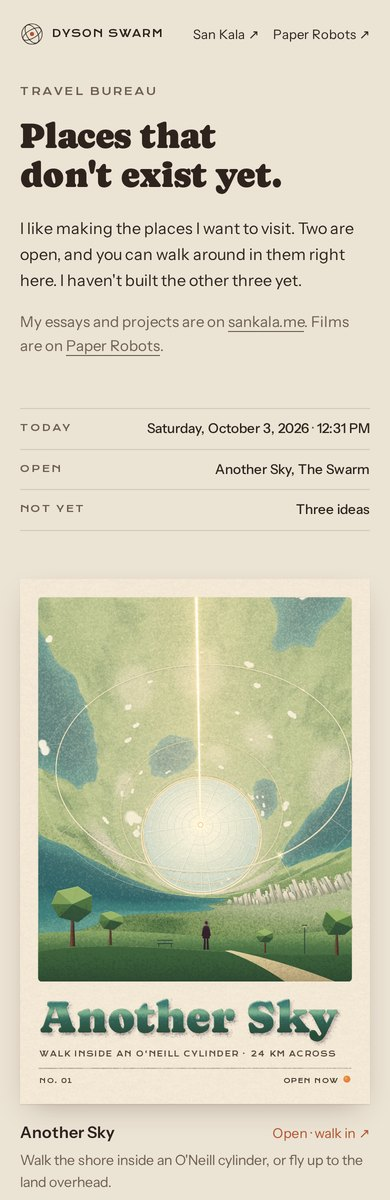
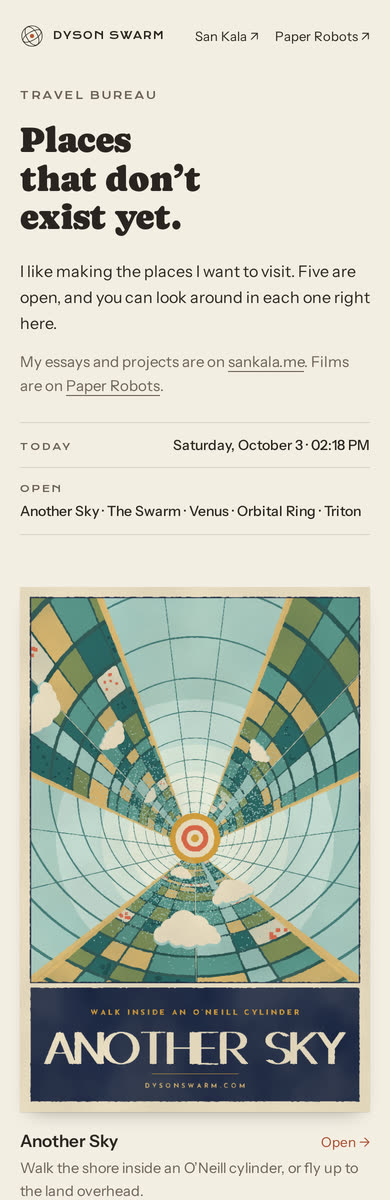
Update the gallery: Dyson Swarm posters and homepage, Another Sky's window live

diff --git a/design/prototypes/2026-10-code-drawn-art/index.html b/design/prototypes/2026-10-code-drawn-art/index.html
@@ -54,6 +54,8 @@
   h3 { font-size: 1.2rem; line-height: 1.3; font-weight: 600; margin: 0; text-wrap: balance; }
   .where { font-weight: 400; color: var(--muted); }
   .eras { margin: 0; padding-left: 1.2rem; display: grid; gap: 0.4rem; }
+  .sheet { display: block; border: 1px solid var(--rule); }
+  .sheet img { display: block; width: 100%; height: auto; }
   .pending-art { display: grid; place-items: center; color: var(--muted); font-size: 0.95rem; text-align: center; padding: 1rem; }
   footer { color: var(--muted); font-size: 0.95rem; border-top: 1px solid var(--rule); padding-top: 1.25rem; }
   code { font-size: 0.9em; overflow-wrap: anywhere; }
@@ -74,31 +76,27 @@
 
     <article class="proposal">
       <a class="art" href="paper-robots-site/index.html"><img src="previews/thumbs/paper-robots-site.jpg" alt="The Paper Robots homepage opening: deep blue space through a camcorder display, a folded-paper screen with green one-eyed riders showing the gold-leaf title card of How to Please a Capricious God, and the film's title and Watch button on the left." width="1200" height="750"></a>
-      <h3><a href="paper-robots-site/index.html">Paper Robots, opening on the evidence loop</a> <span class="where">· paperrobots.studio homepage, plus a film page</span></h3>
+      <h3><a href="https://www.paperrobots.studio/">Paper Robots, opening on the evidence loop</a> <span class="where">· now live on paperrobots.studio</span></h3>
       <p>The evidence loop becomes the whole first screen. The paper robot gasps, the camera whips over its shoulder, the reticle hunts and locks, and the speck turns into a folded-paper screen with the riders clinging on. It tunes in to the newest film's own title card. The title, runtime and Watch button arrive as plain text at the lock. The tape buttons (02 / 01) whip to the other film. Below, the site goes back to quiet paper: each film as a row with its code-drawn poster, then the essays, About and Follow. The <a href="paper-robots-site/film-01.html">film page</a> shows the poster, title card, robot and Shorts loop all coming from one linocut renderer.</p>
       <p class="meta">Every title, line, date and link is the real one from the site · the intro takes 5.5 s (Skip and Pause are always there, and repeat visitors land on the held shot) · weakest parts: on phones the robot briefly overlaps the heading, the vermilion frame around the screen is busy, and the deep blue-violet is darker than the live site's sky · not yet tested on a real phone</p>
     </article>
 
     <article class="proposal" id="dyson-travel-bureau">
-      <a class="art" href="dyson-travel-bureau/index.html"><img src="previews/thumbs/dyson-travel-bureau.jpg" alt="A travel bureau page on warm paper: the heading Places that don't exist yet, a dated board, and airbrushed travel posters for Another Sky (green land curving up round a bright sun-line) and The Swarm (the Sun ringed with collectors above a quarried Mercury)." width="1200" height="750"></a>
-      <h3><a href="dyson-travel-bureau/index.html">Dyson Swarm 1: the travel bureau</a> <span class="where">· my pick · places that don't exist yet</span></h3>
-      <p>A quiet grid of five travel posters, airbrushed the way the 1970s space-colony paintings were: sprayed gradients that break into stipple, knife-cut masks, spattered stars, gouache sparkles. Two are open and link to the real experiences: <b>Another Sky</b>, painted from the explorer's own geometry, with transit cars running round the rings at their real speeds, and <b>The Swarm</b>, with bits of Mercury climbing an arc and flaring as they join. Three are marked "not open yet": <b>The Wheel</b> (a Stanford torus turning once a minute on your clock), <b>Over Venus</b> (a floating city above drifting cloud) and <b>The Tether</b> (a space elevator at dawn). A small board shows today's date. Your copy: “I like making the places I want to visit. Two are open… I haven't built the other three yet.”</p>
-      <p class="meta">Questions for you: are those the right three “not yet” places, or only show what's open? Short facts on the idea posters (1.8 km, 50 km up), yes or no? · weakest parts: all five posters paint on load (about 1 s; production would ship stills and animate only the moving layer); the small capitals on the posters are unreadable on phones (the captions repeat them)</p>
-    </article>
-
-    <article class="proposal" id="dyson-swarm-sky">
-      <a class="art" href="dyson-swarm-sky/index.html"><img src="previews/thumbs/dyson-swarm-sky.jpg" alt="An astronomical glass plate in a kraft sleeve: the Sun's solarized disc ringed by 28 dashed rings of collectors, Mercury and Another Sky circled in ink, a red grease-pencil circle round ring 28, and beside it the heading I'm building a Dyson swarm here, one ring a day, with a slider and an hourly plate log." width="1200" height="750"></a>
-      <h3><a href="dyson-swarm-sky/index.html">Dyson Swarm 2: the swarm, in real time</a> <span class="where">· one ring a day since launch day</span></h3>
-      <p>The homepage is today's photographic plate, like the Harvard plate stacks: the sky as a negative on pale glass, the Sun burnt out, emulsion grain, and the plate readers' India ink and red grease pencil in the margins. The swarm grows on the real clock from 6 September 2026, the day the site went up: one new ring a day, a collector every 90 seconds, and a new launcher on Mercury every Sunday. Today is plate 28, with 16,413 collectors. Each day's ring sits a little further out, so you can count the days like tree rings. The newest ring blinks against yesterday's plate, the way astronomers compared plates to spot changes. A slider steps back through the stack, and the hourly log reads like a plate log. Mercury and Another Sky are circled on the plate and link to the experiences. Your copy: “I'm building a Dyson swarm here, one ring a day. It's pretend, but it runs on the real clock, so it's a little further along every time you look.”</p>
-      <p class="meta">Questions for you: is a pretend clock the right story, and is one ring a day the right speed? Keep “Measured by S.K.” on the sleeve? · weakest parts: the blink is subtle when the newest ring is a thin arc; the inner rings blur into the Sun's glare; after about a year the rings weave into a grey cloud you can no longer count</p>
+      <a class="sheet" href="dyson-home/index.html"><img src="previews/thumbs/dyson-posters.jpg" alt="Five travel posters side by side: Another Sky as an art-deco lithograph looking down an O'Neill cylinder; Dyson Swarm as a space-age screenprint of an orange sun ringed by collectors; Terraforming Venus as a constructivist lithograph, a black sunshade eclipsing the sun above a paving crew and the layers of dry ice, insulation, soil and green; The Orbital Ring as an op-art print, a pink ring arching over a turquoise Earth with one cable to a sea platform; Triton in cloisonné enamel, gold-wired compute halls with white radiators on pink cantaloupe ice under a crescent Neptune." width="2400" height="744"></a>
+      <h3><a href="dyson-home/index.html">Dyson Swarm: the travel bureau, redrawn</a> <span class="where">· your pick, after your quality note · open the homepage</span></h3>
+      <p>The airbrush posters are gone. Each place is now a cover-quality print in its own process, made in the same code as the sankala.me covers: one strong image, a few inks, real print texture. Another Sky and The Swarm use their existing covers. The three new places:</p>
+      <ul class="eras">
+        <li><b>Terraforming Venus</b>, a 1920s constructivist lithograph: Birch's sunshade eclipses the Sun, and Venus is cut open to show your layers (dry ice, insulating sheets, soil, green) while a crew paves the surface. CO2 snow falls against the shade.</li>
+        <li><b>The Orbital Ring</b>, a 1960s op-art screenprint: the ring arches over the Earth and a lift car creeps up one cable from a sea platform.</li>
+        <li><b>Triton</b>, cloisonné enamel: compute halls with tall radiators on Triton's pink cantaloupe ice under a crescent Neptune; the geyser pulses and hall windows blink as jobs finish. “Compute at 38 Kelvin.”</li>
+      </ul>
+      <p class="meta">The homepage is built with all five posters animating (open it above; Another Sky and The Swarm open the live worlds). Still being built: the three new worlds behind the posters (Venus with your shade-freeze-pave-soil timeline, the ride up to the ring, and the Triton campus). The real-time swarm plate is retired, as you asked.</p>
     </article>
 
     <article class="proposal" id="dyson-habitat-window">
-      <a class="art" href="dyson-habitat-window/index.html"><img src="previews/thumbs/dyson-habitat-window.jpg" alt="A watercolour seen through a tall window with paper-white bars: inside Another Sky at 3 pm, the lake climbing the left wall and over the top, green land overhead, the far end wall as a pale disc, trees on the near hill, and beside it the line This is the view from a house inside Another Sky." width="1200" height="750"></a>
-      <h3><a href="dyson-habitat-window/index.html">Dyson Swarm 3: a window in the habitat</a> <span class="where">· the view from a house inside Another Sky</span></h3>
-      <p>A plein-air watercolour over a pencil underdrawing, seen through a window whose bars are bare paper, as if taped before painting. The view uses Another Sky's own geometry: the lake climbing the left wall and over your head, towns and land overhead, the far end wall as a pale disc. The light follows your clock, and each hour changes which paints go into the washes, so it is repainted rather than filtered. Clouds drift along the axis, trains run the rings, a shower comes and goes on the far side, and at dusk lamps come on one by one until only the far shore is lit overhead. On load it paints itself wash by wash. Your copy: “This is the view from a house inside Another Sky. The light follows your clock. You can go and walk around in it.”</p>
-      <a class="art" href="dyson-habitat-window/index.html?hour=21.3"><img src="previews/thumbs/dyson-habitat-window-night.jpg" alt="The same window at 9:18 pm: deep blue washes, the lamps of the far side lit overhead in warm clusters, dark trees on the near hill." width="1200" height="750"></a>
-      <p class="meta">Questions for you: your visitors' clock, or San Jose time so everyone sees your moment? Keep the paint-in on load? · weakest parts: the curved view is hard to read at first glance and the pencil construction is busy; the far towns at night bunch into clusters that look a little like stars; trains and rain are easy to miss; it takes 1–2 s to paint · it would pair with your poem, which is set in the same kind of place</p>
+      <a class="art" href="https://dysonswarm.com/another-sky/"><img src="previews/thumbs/dyson-habitat-window.jpg" alt="A watercolour seen through a tall window with paper-white bars: inside Another Sky, the lake climbing the left wall and over the top, green land overhead, the far end wall as a pale disc." width="1200" height="750"></a>
+      <h3><a href="https://dysonswarm.com/another-sky/">The habitat window, now Another Sky's front door</a> <span class="where">· live on dysonswarm.com</span></h3>
+      <p>Another Sky now opens on the window: it paints itself wash by wash while the 3D world builds behind it, then “Step outside” zooms through the glass into the explorer. The light follows your clock; at night the caption quotes your poem's lamps of the far shore and links to it. Clearer than the sample: the light spine and end wall sit in one pane, less pencil, and the far towns at night are strung along their streets instead of looking like stars.</p>
     </article>
   </section>
 
